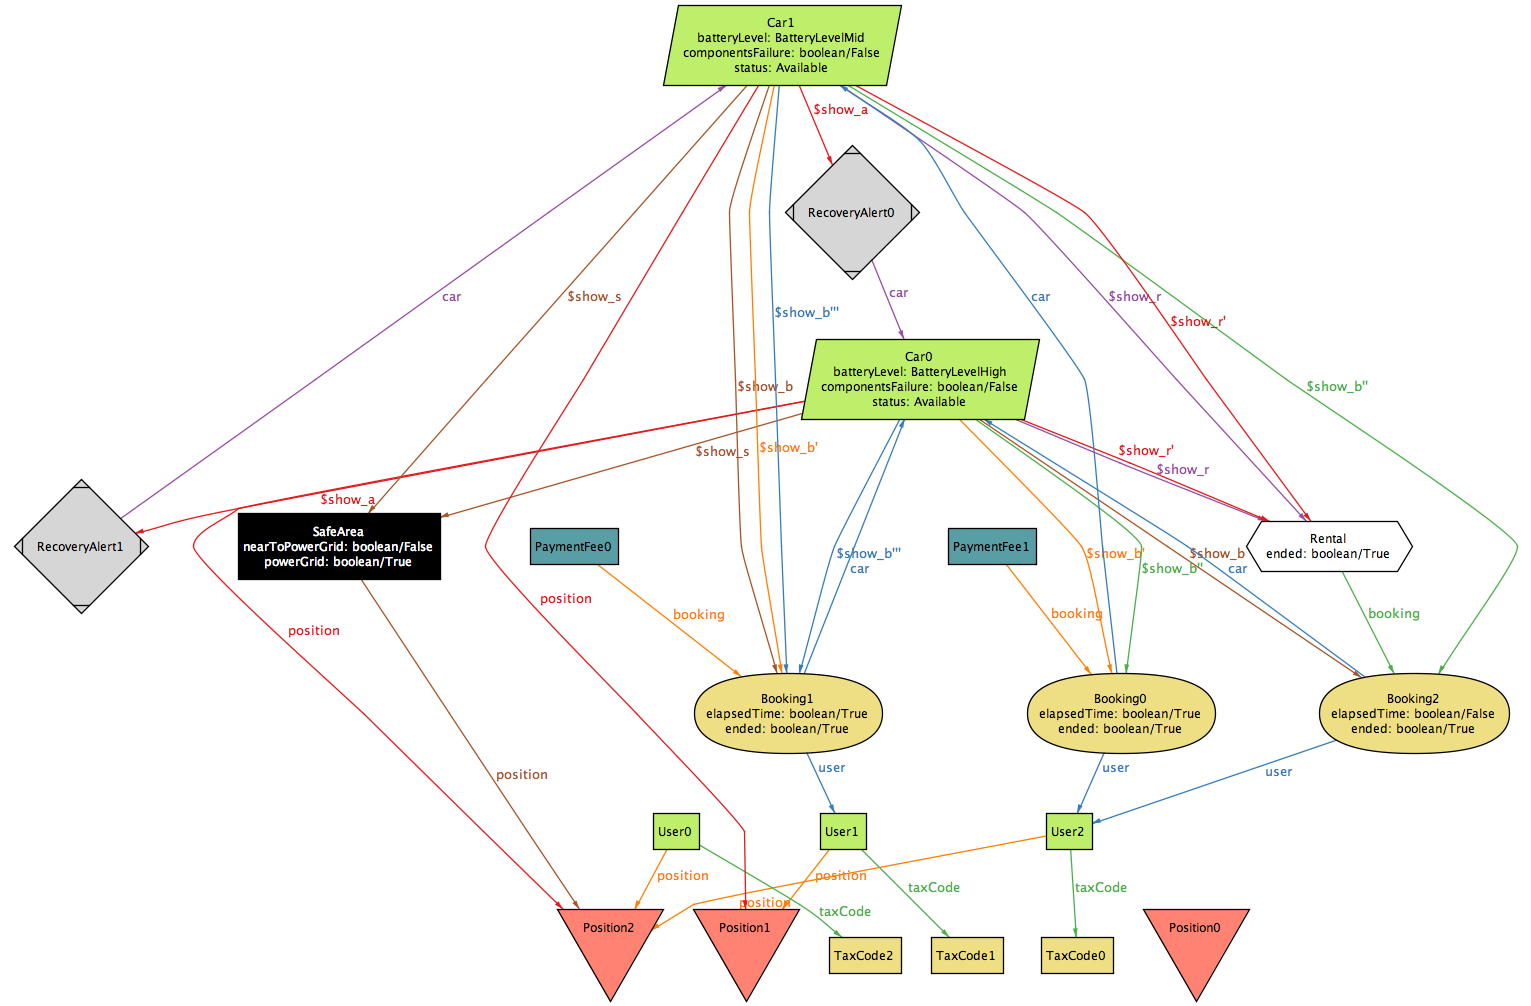
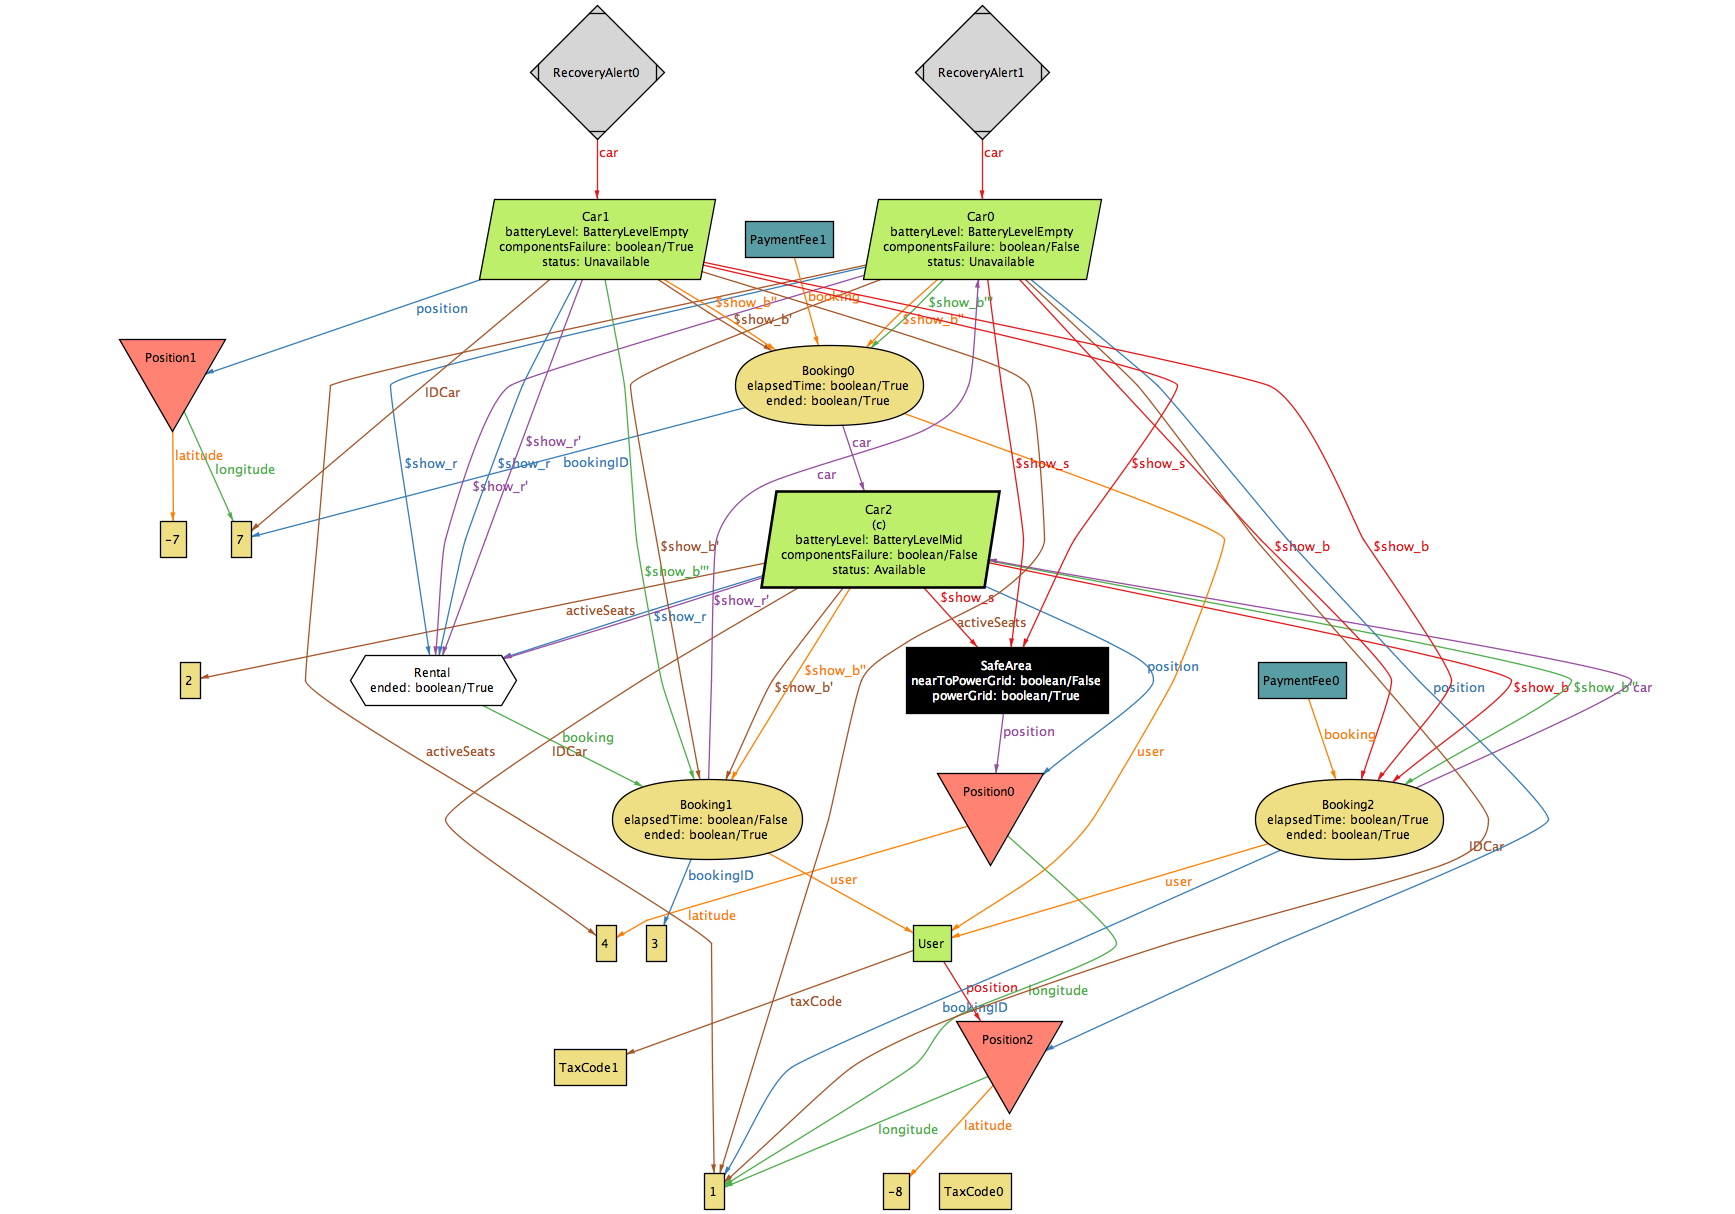
Fix bug in Alloy model

diff --git a/RASD/main.tex b/RASD/main.tex
@@ -43,7 +43,7 @@
 	
 	\vfill
 	
-	{\Large Version 1.0 approved\par}
+	{\Large Version 1.0.1 approved\par}
 	\vspace{1.25cm}
 	{\large \today\par}
 \end{titlepage}
@@ -51,6 +51,7 @@
 \begin{versionhistory}
   \vhEntry{0.1}{26.10.16}{RP}{Document created}
   \vhEntry{1.0}{13.11.16}{RP and MP}{Document approved}
+  \vhEntry{1.0.1}{14.11.16}{RP and MP}{Fix bug in Alloy model}
 \end{versionhistory}
 
 \vspace{5cm}

diff --git a/RASD/chapters/appendices/appendix-b/sections/b-6-instances-generated.tex b/RASD/chapters/appendices/appendix-b/sections/b-6-instances-generated.tex
@@ -2,7 +2,7 @@
 
 \begin{figure}[H]
 	\centering
-	\includegraphics[width=1.4\textwidth, angle=90]{pred-show}
+	\includegraphics[width=1.425\textwidth, angle=90]{pred-show}
 	\caption[Predicate instance - Show]{The image above is a the instance generated by the Alloy Analyzer 4.2 after running the predicate 'show'.}
 	\label{fig:pred-show}
 \end{figure}

diff --git a/RASD/chapters/appendices/appendix-b/sections/b-2-facts.tex b/RASD/chapters/appendices/appendix-b/sections/b-2-facts.tex
@@ -88,7 +88,7 @@ fact endRentalIfUnavailable {
 }
 
 fact alertIffUnavailable {
-	all c: Car |	some a: RecoveryAlert | (c.status = Unavailable) <=> (a.car = c)
+	all c: Car | (c.status = Unavailable) <=> some a: RecoveryAlert | (a.car = c)
 }
 
 fact alertsAreUnique {
